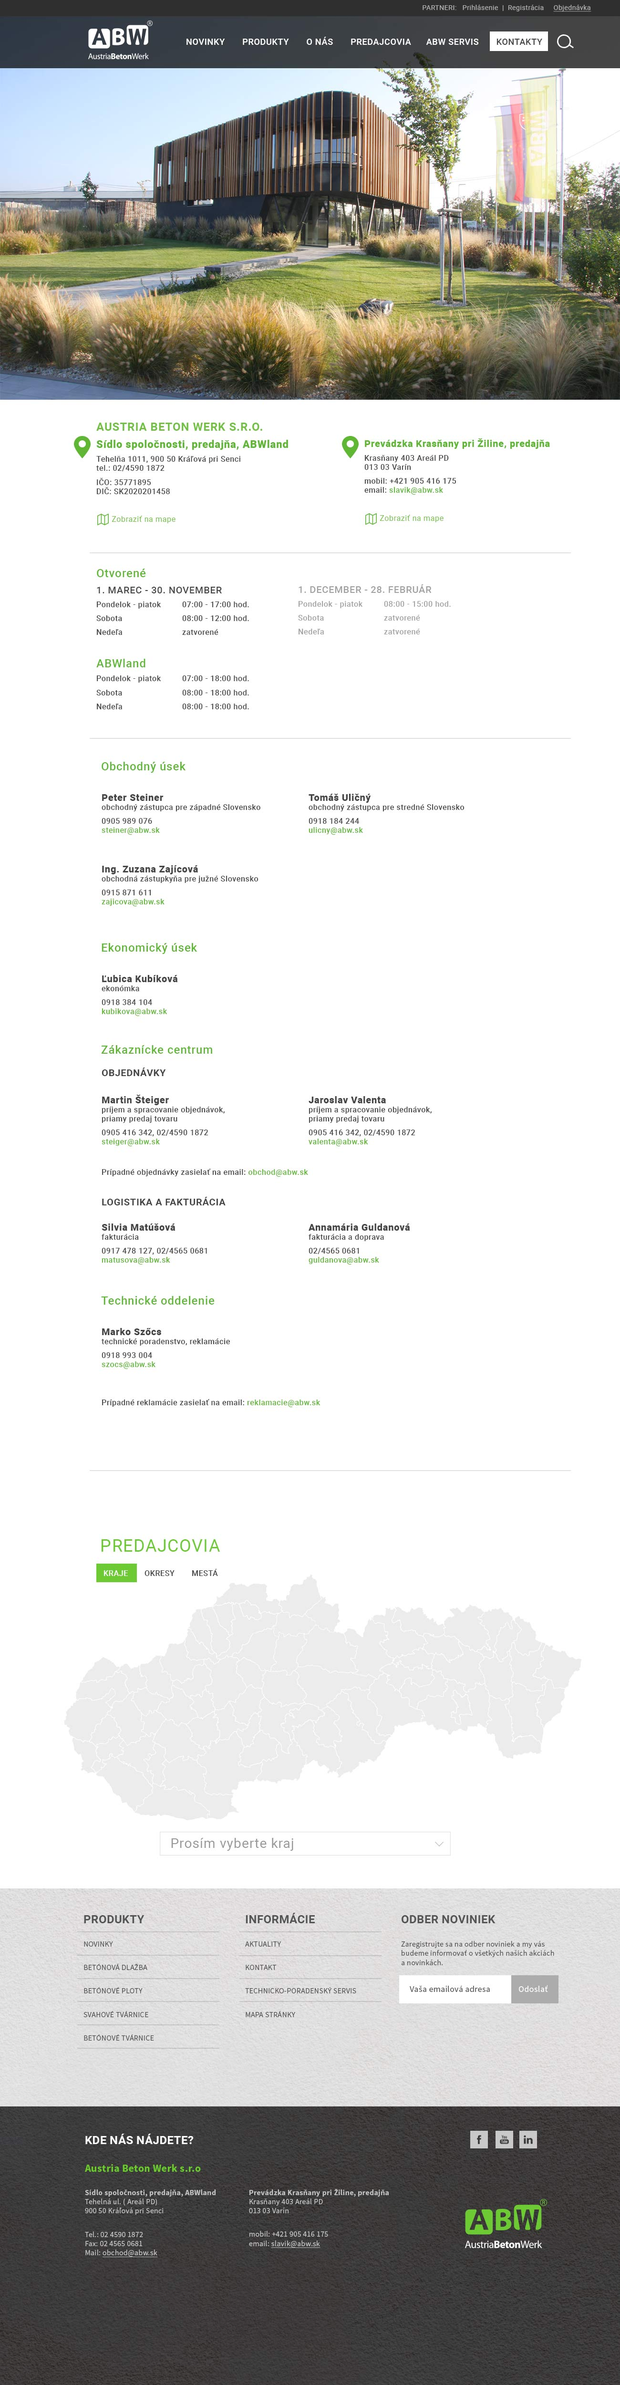
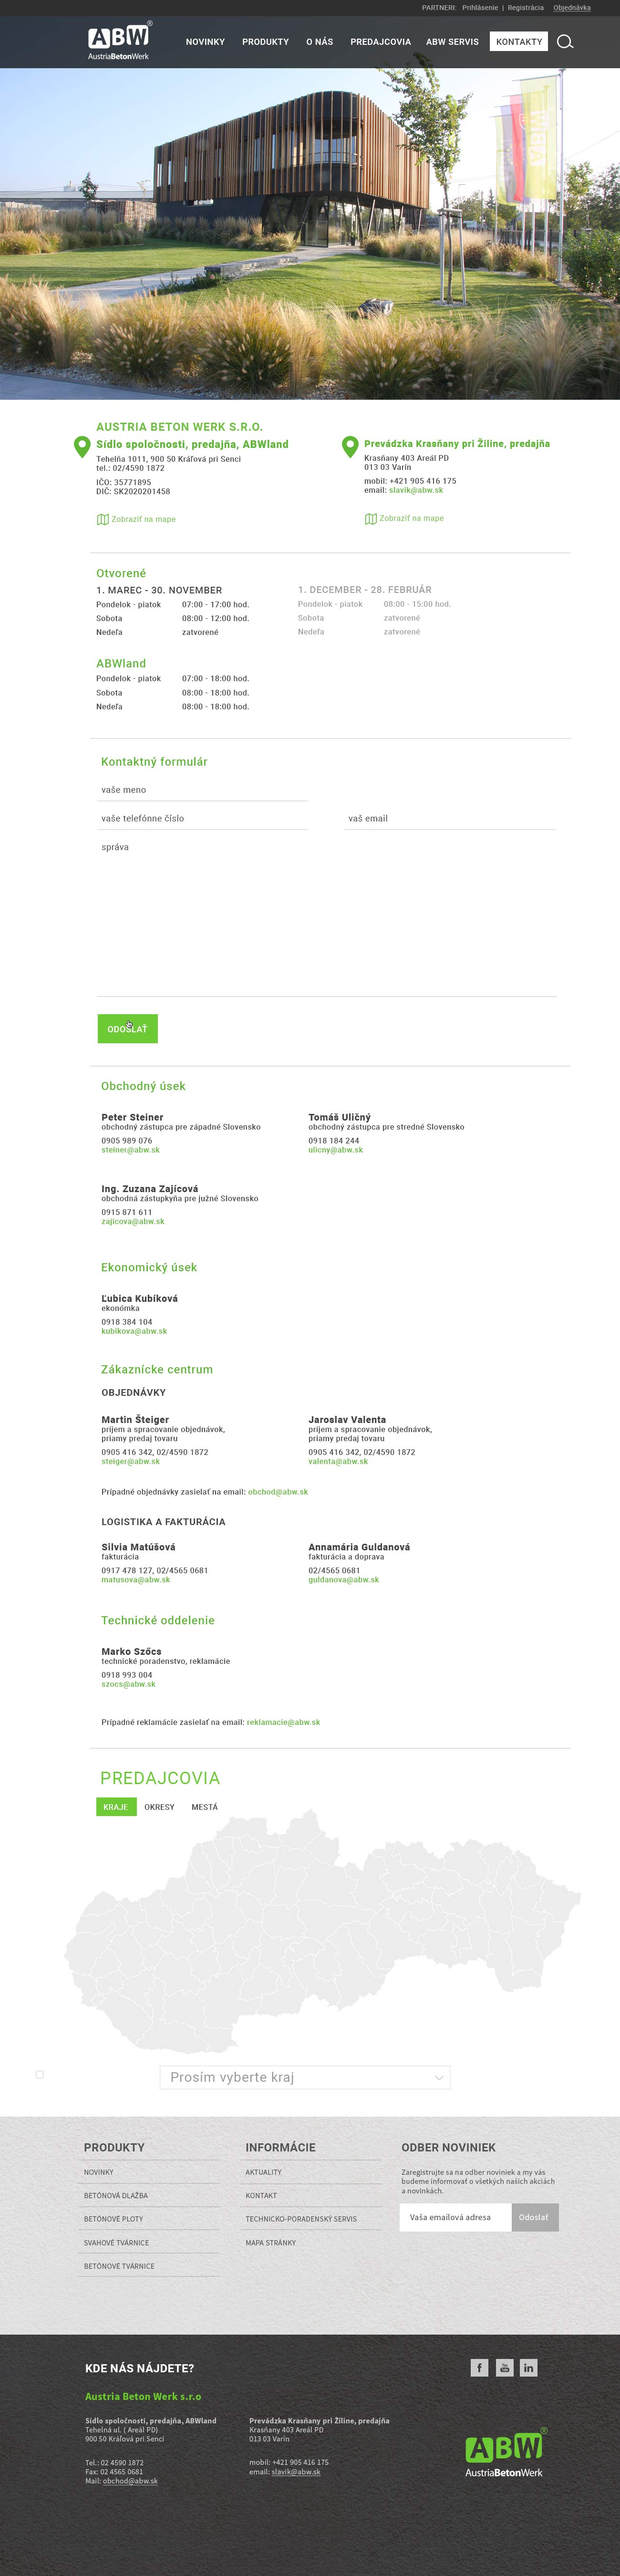
Sum

diff --git a/docs/web/dpoved/index.html b/docs/web/dpoved/index.html
@@ -1,0 +1,101 @@
+<!doctype html>
+<html>
+<head>
+<meta charset="UTF-8">
+<title>Ďakujeme za Váš záujem</title>
+</head><style type="text/css">
+body {
+	background-color: #666;
+}
+</style>
+<div style="bgcolor=#666666" >
+
+<center>
+  <table bgcolor="#fff" border="0" cellpadding="0" cellspacing="0" style="text-align:left;" width="600">
+    <tbody style="text-align:left;">
+      <tr>
+        <td><div align="center"><a href="http://www.abw.sk"><img alt="top" border="0" height="680" src="img/top.jpg" width="600"></a></div></td>
+      </tr>
+      <tr>
+        <td><table border="0" cellpadding="0" cellspacing="0" width="600">
+          <tbody>
+            <tr>
+              <td width="600"><table width="600" border="0" cellpadding="0" cellspacing="0">
+                <tbody>
+                  <tr style="background-color:#fff">
+                    <td width="48" height="498">&nbsp;</td>
+                    <td colspan="2" valign="top" style="">
+                    
+                   
+                    <p style=" padding: 10px 0; font-size: 26px; text-align: left ; color: #66b631; font-family: Arial, Helvetica, sans-serif; font-weight: bold;"><br>
+                      Ďakujeme za  záujem, <br>
+                      dostali sme Vašu správu.<br>
+                    </p>
+                    <p style=" padding: 10px 0; font-size: 18px; text-align: left ; color: #656565; font-family: Arial, Helvetica, sans-serif; font-weight: normal;">Vašu správu sme dostali a postúúpili príslušnému oddeleniu, čoskoro Vás budeme kontaktovať.<br>
+                      <br>
+<br>
+<br>
+                        <span style="text-align: center ; color: #66b631; text-transform:uppercase; font-size: 20px">Tím ABW.</span><br>
+                      <br>
+                  
+                      <hr>
+                      <p style="margin:0px; padding:10px 0;font-size: 18px; align= left; color: #66b631; font-family: Arial, Helvetica, sans-serif; font-weight: bold;"><span style="text-align: center"><br>
+                        AUSTRIA</span> BETON WERK s.r.o.</p>
+                      <table width="495" border="0">
+                        <tbody>
+                          <tr>
+                            <td width="39" align="center" valign="top"><a href="http://www.abw.sk"><img alt="top" border="0" height="42" src="http://www.abw.sk/buxus/images/cache/buxus_image_browser/Newsletter/04.17/point.png" width="35"></a></td>
+                            <td width="446" valign="top"><p style="margin:0px; ;font-size: 16px; align=left; color: #656565; font-family: Arial, Helvetica, sans-serif; font-weight: normal;"><strong>Sídlo spoločnosti, predajňa, ABWland</strong><br>
+                              Tehelňa 1011<br>
+                              900 50 Kráľová pri Senci<br>
+                              tel.: 02/4590 1872<br>
+                              mobil: +421 905 416 342</p>
+                              <a href style="margin:0px; padding:10px 0;font-size: 16px; align=left; color: #66b631; font-family: Arial, Helvetica, sans-serif; font-weight: normal;"></a></td>
+                          </tr>
+                          <tr>
+                            <td><a href="https://www.google.com/maps/place/AUSTRIA+BETON+WERK+s.r.o./@48.1885163,17.4464543,379m/data=!3m1!1e3!4m5!3m4!1s0x0:0xd8c10d35fb99c3b1!8m2!3d48.1886057!4d17.4487292?hl=en-US" target="_blank"><img alt="top" border="0" height="42" src="http://www.abw.sk/buxus/images/cache/buxus_image_browser/Newsletter/04.17/map.png" width="35"></a></td>
+                            <td><a href="https://www.google.com/maps/place/AUSTRIA+BETON+WERK+s.r.o./@48.1885163,17.4464543,379m/data=!3m1!1e3!4m5!3m4!1s0x0:0xd8c10d35fb99c3b1!8m2!3d48.1886057!4d17.4487292?hl=en-US" target="_blank" style="margin:0px; padding:10px 0;font-size: 14px; align=left; color: #66b631; font-family: Arial, Helvetica, sans-serif; font-weight: normal;">Zobraziť na mape</a></td>
+                          </tr>
+                          <tr>
+                            <td>&nbsp;</td>
+                            <td>&nbsp;</td>
+                          </tr>
+                          <tr>
+                            <td align="center" valign="top"><img alt="top" border="0" height="42" src="http://www.abw.sk/buxus/images/cache/buxus_image_browser/Newsletter/04.17/point.png" width="35"></td>
+                            <td><span style="margin:0px; padding:10px 0;font-size: 16px; align=left; color: #656565; font-family: Arial, Helvetica, sans-serif; font-weight: normal;"><strong>Prevádzka Žilina, predajňa</strong><br>
+                              Krasňany 403<br>
+                              013 03 Varín<br>
+                              tel. : +421 905 416 175</span></td>
+                          </tr>
+                          <tr>
+                            <td><a href="https://www.google.com/maps/@49.22106,18.8993,79m/data=!3m1!1e3?hl=en-US" target="_blank"><img alt="top" border="0" height="42" src="http://www.abw.sk/buxus/images/cache/buxus_image_browser/Newsletter/04.17/map.png" width="35"></a></td>
+                            <td><a href="https://www.google.com/maps/@49.2207091,18.8993613,238m/data=!3m1!1e3?hl=en-US" target="_blank" style="margin:0px; padding:10px 0;font-size: 14px; align=left; color: #66b631; font-family: Arial, Helvetica, sans-serif; font-weight: normal;">Zobraziť na mape</a></td>
+                          </tr>
+                          <tr>
+                            <td>&nbsp;</td>
+                            <td>&nbsp;</td>
+                          </tr>
+                          <tr>
+                            <td colspan="2"> <a href="http://www.abw.sk" target="_blank" style="margin:0px; padding:10px 0;font-size: 18px; align=left; color: #66b631; font-family: Arial, Helvetica, sans-serif; font-weight: normal; text-decoration:none">www.abw.sk</a></td>
+                          </tr>
+                        </tbody>
+                      </table>
+                      <br></td>
+                    <td width="53">&nbsp;</td>
+                  </tr>
+                </tbody>
+              </table></td>
+            </tr>
+          </tbody>
+        </table></td>
+      </tr>
+    </tbody>
+  </table> 
+  <h1>&nbsp;</h1>
+	<h1>&nbsp;</h1>
+</center>
+</div>
+
+
+</body>
+</html>

diff --git a/docs/web/16.html b/docs/web/16.html
@@ -15,6 +15,6 @@ body {
 }
 </style>
 <body> 
-<div align="center"> <a href="index.html"><img src="Web_ABW_kontakty.jpg" width="1300" height="5000" border="0"></a></div>
+<div align="center"> <a href="index.html"><img src="Web_ABW_kontakty.jpg" width="1300" height="5400" border="0"></a></div>
 </body>
 </html>
